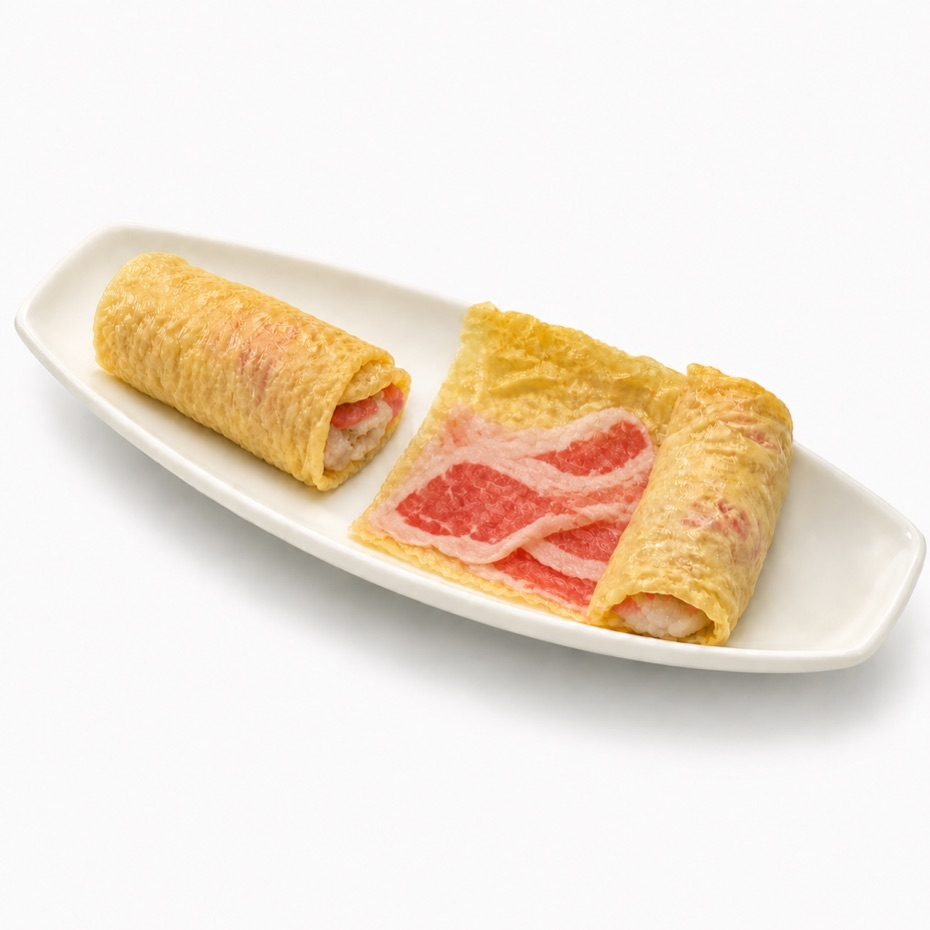
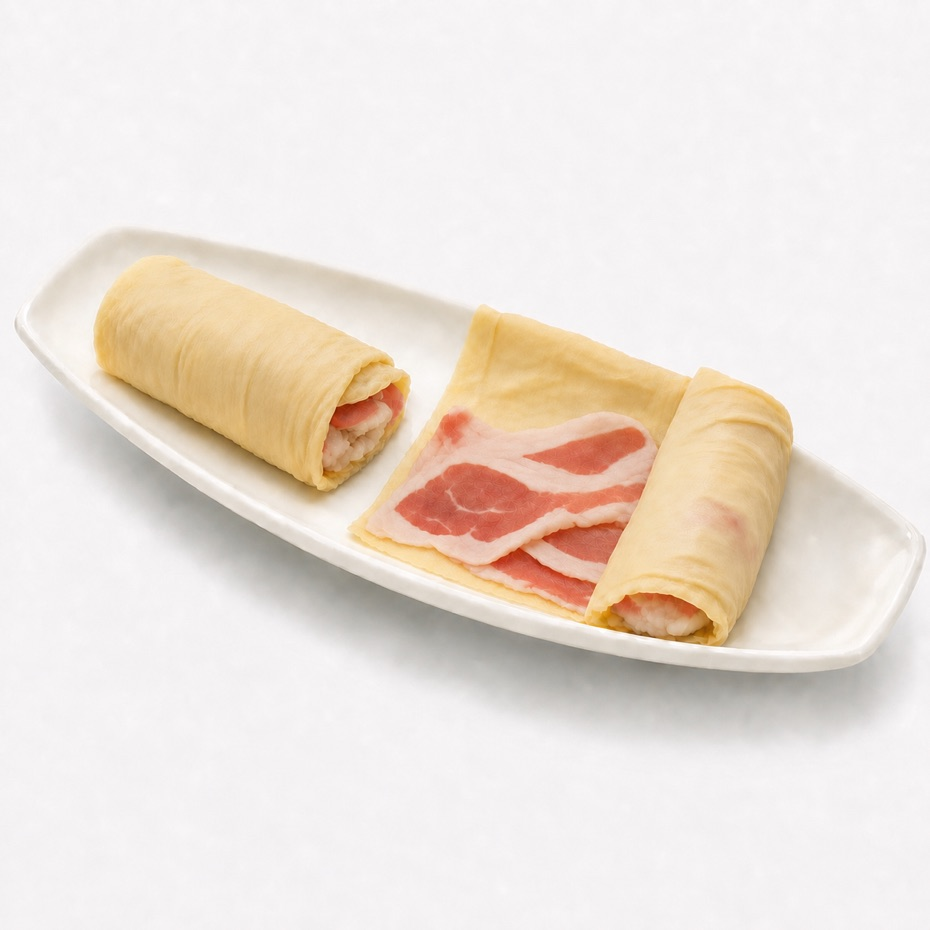
두유피말이 카드 그림을 AI 티가 덜한 B-v2로 바꾼다
- 코덱스 질감 보정 후보 B-v2(사용자님 선택). 배 접시·생 상태 구도는 그대로, 두유피 벌집 무늬와 밀랍 같은 고기 질감을 걷어냈다.
- assets/cards/두유피말이.jpg 930×930 · img 주소에 ?v=2 · script.js?v=686.
- 원본: data/recipe/02_export/두유피말이.png(B-v2), 옛것은 99_archive/past-export/ 로.

Changed region(s): [[0.0935, 0.2495, 0.8731, 0.7172]]

diff --git a/script.js b/script.js
@@ -354,7 +354,7 @@
         '국물에 넣어 익혀 먹는다',
       ],
       tip: '' },
-    { id: 'e4', cat: '히든메뉴', emoji: '🌯', img: 'assets/cards/두유피말이.jpg', imgFit: 'cover', tint: 'linear-gradient(160deg,#FBF0DC,#EBD8B0)', name: '두유피말이', source: 'Instagram @lee._.soom', desc: '두유피튀김을 전골에 담갔다 빼서 고기랑 돌돌돌 말아가지고 전골에 푸우우우욱 익혀서 호록하고 먹는 히든 메뉴이다.',
+    { id: 'e4', cat: '히든메뉴', emoji: '🌯', img: 'assets/cards/두유피말이.jpg?v=2', imgFit: 'cover', tint: 'linear-gradient(160deg,#FBF0DC,#EBD8B0)', name: '두유피말이', source: 'Instagram @lee._.soom', desc: '두유피튀김을 전골에 담갔다 빼서 고기랑 돌돌돌 말아가지고 전골에 푸우우우욱 익혀서 호록하고 먹는 히든 메뉴이다.',
       order: [['두유피튀김', '1', '인분'], ['우삼겹', '1', '인분'], ['새우완자', '1', '인분'], ['거름망', '', '']],
       ings: [],
       steps: [

diff --git a/index.html b/index.html
@@ -1255,7 +1255,7 @@
 
 <!-- 메뉴 데이터 — `node .claude/make_menu_data.mjs`가 메뉴.md 에서 자동 생성한다. 손으로 고치지 말 것 -->
 <script src="menu-data.js?v=7"></script>
-<script src="script.js?v=685"></script>
+<script src="script.js?v=686"></script>
 
 <!-- Cloudflare Web Analytics --><script type='module' src='https://static.cloudflareinsights.com/beacon.min.js' data-cf-beacon='{"token": "d7c0ac8f66544156bca23d2c7f84c961"}'></script><!-- End Cloudflare Web Analytics -->
 </body>
